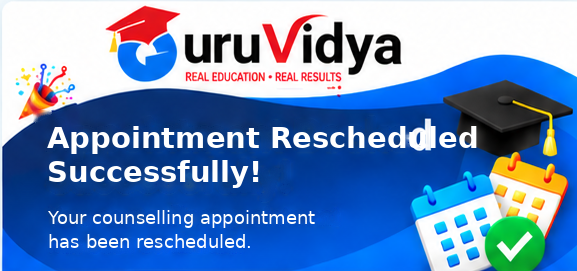
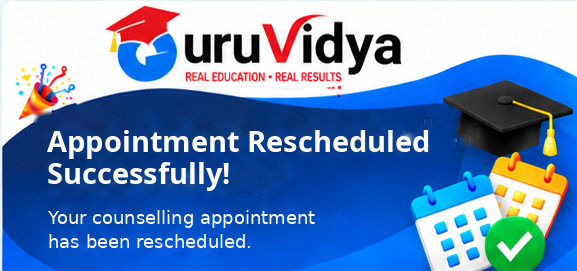
Add files via upload

Changed region(s): [[0.0624, 0.4428, 0.8423, 0.7085]]

diff --git a/server.js b/server.js
@@ -4398,7 +4398,7 @@ function bookingEmailHtml(b,token,{rescheduled=false}={}) {
   const logo=`${base}/api/public/booking/email-logo.png`;
   const headerArt=`${base}/api/public/booking/email-icon/header-art.png`;
   const exactBookedHeader=`${base}/api/public/booking/email-icon/header-booked-exact.png`;
-  const exactRescheduledHeader=`${base}/api/public/booking/email-icon/header-rescheduled-exact.png?v=1`;
+  const exactRescheduledHeader=`${base}/api/public/booking/email-icon/header-rescheduled-exact.png?v=2`;
   const gmark=`${base}/api/public/booking/email-icon/g-mark.png`;
   const mapOrMeet=offline?(b.offline_map_url||manage):(b.meeting_link||manage);
   const inlineIcon=(name,tone='blue',size=24)=>`<img src="${base}/api/public/booking/email-icon/${name}-${tone}.png${name==='whatsapp'&&tone==='green'?'?v=5':''}" width="${size}" height="${size}" alt="" style="display:block;width:${size}px;height:${size}px;border:0">`;
